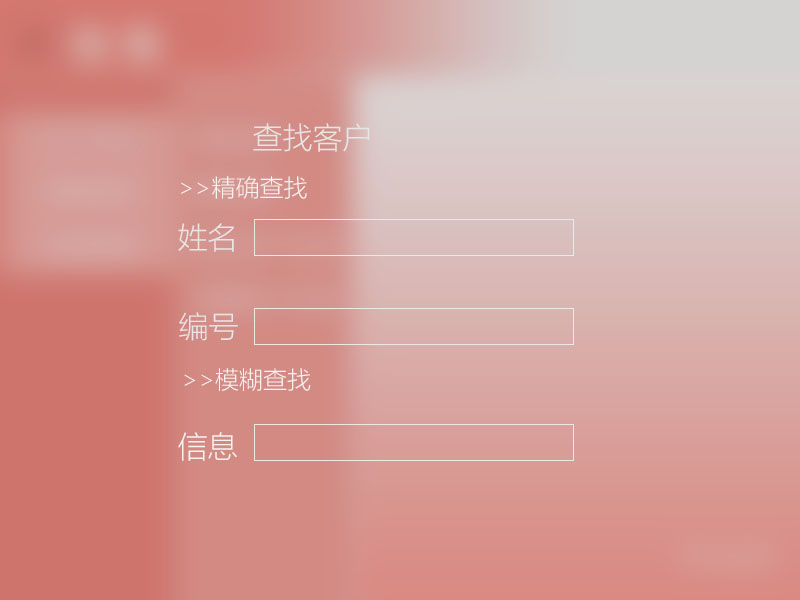
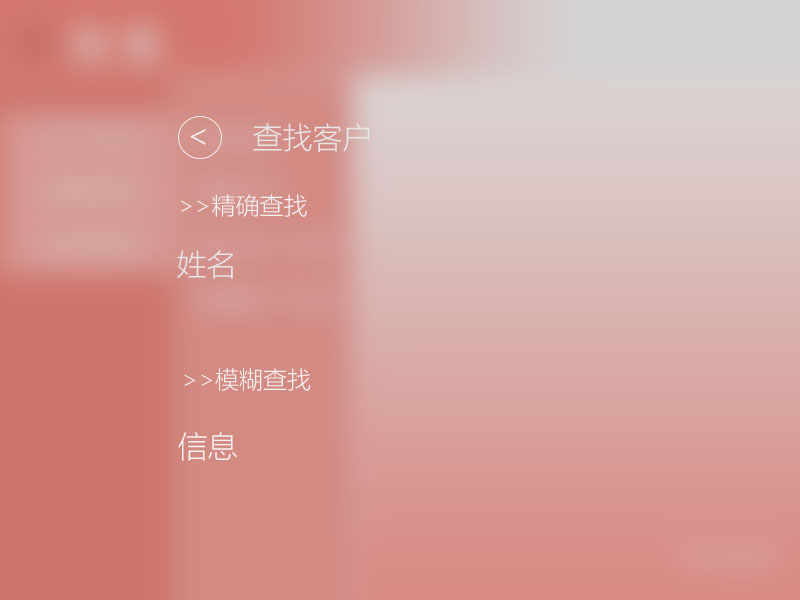
小修改

Changed region(s): [[0.2188, 0.27, 0.4062, 0.48], [0.2188, 0.51, 0.3125, 0.57], [0.2188, 0.21, 0.2812, 0.24]]

diff --git a/JXCSystemClient/src/main/java/ui/admin/ConfirmUserPanel.java b/JXCSystemClient/src/main/java/ui/admin/ConfirmUserPanel.java
@@ -1,6 +1,7 @@
 package ui.admin;
 
 import java.awt.event.ActionEvent;
+
 import java.awt.event.ActionListener;
 
 import ui.AdminPanel;
@@ -8,6 +9,7 @@ import ui.FatherPanel;
 import ui.setting.ColorFactory;
 import ui.setting.MyFrame;
 import ui.setting.MyLabel;
+import ui.setting.Button.BackButton;
 import ui.setting.Button.ForwardButton;
 import ui.setting.Button.MyButton;
 import ui.setting.resultPanels.ResultPanelController;
@@ -16,7 +18,7 @@ import businesslogic.userbl.UserController;
 import businesslogicservice.userblservice.UserblService;
 
 public class ConfirmUserPanel extends FatherPanel implements ActionListener{
-	protected MyButton forwardButton;
+	protected MyButton forwardButton,backButtonConfirm;
 	protected ResultPanelController resController;
 	protected AdminAllUIController adminAllUIController;
 	protected UserVO user;
@@ -41,6 +43,8 @@ public class ConfirmUserPanel extends FatherPanel implements ActionListener{
 		setInfoLabel();
 		
 		userblService = new UserController();
+		
+		frame.repaint();
 	}
 
 	private void setForward() {
@@ -48,6 +52,13 @@ public class ConfirmUserPanel extends FatherPanel implements ActionListener{
 		forwardButton = forward.forward_white;
 		this.add(forwardButton);
 		forwardButton.addActionListener(this);
+		
+		BackButton back = new BackButton(200 ,300);
+		backButtonConfirm = back.back_white;		
+		this.add(backButtonConfirm);
+		backButtonConfirm.addActionListener(this);
+		
+		
 	}
 
 	private void addCloseLabel(){
@@ -102,11 +113,12 @@ public class ConfirmUserPanel extends FatherPanel implements ActionListener{
 	private void check(int i){
 //		System.out.println(i);
 		
-		AdminPanel temp= (AdminPanel)(adminAllUIController.getMainPanel());
+		AdminPanel temp= AdminAllUIController.adminPanel;
 		temp.setTable();
 		
 		resController = new ResultPanelController(frame, temp);
 		temp.remove(this);
+		
 		adminAllUIController.setMainPanel(temp);
 		
 		switch (i) {
@@ -141,9 +153,13 @@ public class ConfirmUserPanel extends FatherPanel implements ActionListener{
 			else if (type.equals("删除")) {
 				check(userblService.delUser_up(user));
 			}
-			frame.repaint();
-		}
 			
+			
+		}else if(event.getSource() == backButtonConfirm){
+			frame.remove(AdminAllUIController.adminPanel);
+			frame.setPanel(adminAllUIController.getPanel());
+		}
+		frame.repaint();		
 	}
 	
 }

diff --git a/JXCSystemClient/src/main/java/ui/commodity/manage/ConfirmComPanel.java b/JXCSystemClient/src/main/java/ui/commodity/manage/ConfirmComPanel.java
@@ -16,12 +16,10 @@ import businesslogicservice.commodityblservice.CommodityblService;
 
 public class ConfirmComPanel extends ComDetailPanel implements ActionListener{
 
-	private MyFrame frame;
 	private MyButton forwardButton;
 	private ResultPanelController resControllerS,resControllerF;
 	private String type;
 	private String failedAddress;
-	private CommodityAllUIController commodityAllUIController;
 	private CommodityVO commodityVO,oldVO;
 	private SortVO sortVO;
 	
@@ -29,14 +27,11 @@ public class ConfirmComPanel extends ComDetailPanel implements ActionListener{
 	public ConfirmComPanel(MyFrame frame, String url, CommodityAllUIController controller,CommodityVO commodityVO,
 			String type,SortVO sortVO) {
 		super(frame, url, controller,commodityVO);
-		this.frame = frame;
-		this.commodityAllUIController = controller;
 		this.type = type;
 		this.sortVO = sortVO;
 		this.failedAddress = "commodity1";
 		this.commodityVO = commodityVO;
 		
-		commodityAllUIController.setBack_first(this);
 
 		commodityblService = new CommodityController();
 		resControllerS = new ResultPanelController(frame,commodityAllUIController.getMainPanel());
@@ -48,15 +43,12 @@ public class ConfirmComPanel extends ComDetailPanel implements ActionListener{
 	public ConfirmComPanel(MyFrame frame, String url, CommodityAllUIController controller,CommodityVO commodityVO,
 			String type,SortVO sortVO,CommodityVO oldVO) {
 		super(frame, url, controller,commodityVO);
-		this.frame = frame;
 		this.oldVO = oldVO;
-		this.commodityAllUIController = controller;
 		this.type = type;
 		this.sortVO = sortVO;
 		this.failedAddress = "commodity1";
 		this.commodityVO = commodityVO;
 		
-		commodityAllUIController.setBack_first(this);
 
 		commodityblService = new CommodityController();
 		resControllerF = new ResultPanelController(frame, commodityAllUIController.getPanel());
@@ -65,6 +57,9 @@ public class ConfirmComPanel extends ComDetailPanel implements ActionListener{
 		setForward();
 	}
 
+	protected void initReturn () {
+		commodityAllUIController.setBack_third(this);
+	}
 	private void setForward() {
 		ForwardButton forward = new ForwardButton(680,451 );
 		forwardButton = forward.forward_black;

diff --git a/JXCSystemClient/src/main/java/ui/account/payRe/AddPaymentPanel.java b/JXCSystemClient/src/main/java/ui/account/payRe/AddPaymentPanel.java
@@ -10,6 +10,8 @@ import javax.swing.event.DocumentListener;
 import javax.swing.text.BadLocationException;
 import javax.swing.text.Document;
 
+import org.openxmlformats.schemas.wordprocessingml.x2006.main.FtrDocument;
+
 import po.PaymentPO;
 import ui.FatherPanel;
 import ui.account.AccountAllUIController;
@@ -151,6 +153,8 @@ public class AddPaymentPanel extends FatherPanel implements ActionListener{
 //		cusVoArray = accountblService.getAllCustomer_up();
 		
 		cusVoArray = salesblService.getAllImportCustomer_up();
+		
+		
 		String[]customers = new String[cusVoArray.size()];
 		for(int i = 0;i < cusVoArray.size();i++){
 			customers[i] = cusVoArray.get(i).cusName;
@@ -247,27 +251,29 @@ public class AddPaymentPanel extends FatherPanel implements ActionListener{
 				frame.remove(this);
 				resController.failed("存在输入为空！", failedAddress);
 				
-			}else{
-				try {
-					
-				} catch (Exception e2) {
-					// TODO: handle exception
-				}
+			}
+			else {
+		
 				
 				
 				try{
 					
-//					totalValue = accountblService.calTotalMoney_up(newPayment);
+					//					totalValue = accountblService.calTotalMoney_up(newPayment);
 					setNewPayment();
-					uiController.setTempPanel(this);
+					if(totalValue > balanceValue){
+						frame.remove(this);
+						resController.failed("账户余额不足！", failedAddress);
+					}else{
+						uiController.setTempPanel(this);
+						frame.remove(this);
+						operate = operator.getText();
+						uiController.confirmPayment(newPayment,person,operate,
+								totalValue,balanceValue);
+					}
+				}catch(Exception e2){
 					frame.remove(this);
-					operate = operator.getText();
-					uiController.confirmPayment(newPayment,person,operate,
-							totalValue,balanceValue);
-						}catch(Exception e2){
-							frame.remove(this);
-							resController.failed("存在输入错误！",failedAddress);		
-							}
+					resController.failed("存在输入错误！",failedAddress);		
+				}
 			}
 				
 		}else if(e.getSource() == account){

diff --git a/JXCSystemClient/src/main/java/ui/admin/DelUserPanel.java b/JXCSystemClient/src/main/java/ui/admin/DelUserPanel.java
@@ -4,6 +4,7 @@ import java.awt.event.ActionEvent;
 import java.awt.event.ActionListener;
 
 import ui.FatherPanel;
+import ui.UIController;
 import ui.setting.ColorFactory;
 import ui.setting.MyFrame;
 import ui.setting.Button.ForwardButton;
@@ -75,6 +76,7 @@ public class DelUserPanel extends FatherPanel implements ActionListener{
 				 */
 				user = userblService.searchUser_up(id).get(0);
 				//			user = new UserVO("21", "2", "2", 1);
+				adminAllUIController.setTempPanel(this);
 				adminAllUIController.confirmUserPanel(user,"删除");
 				frame.repaint();
 			}

diff --git a/JXCSystemClient/src/main/java/ui/admin/AddUserPanel.java b/JXCSystemClient/src/main/java/ui/admin/AddUserPanel.java
@@ -121,10 +121,13 @@ public class AddUserPanel extends FatherPanel implements ActionListener{
 				frame.remove(this);
 				resController.failed("输入存在错误！请重新确认您的输入信息！", failedAddress);
 			}else {
+//			uiController.setTempPanel(this);
 			frame.remove(this);
 			frame.setPanel(uiController.getMainPanel());
 			user = new UserVO(textInfos[0].getText(),textInfos[1].getText()
 					,textInfos[3].getText(),dutyGet);
+			
+			uiController.setTempPanel(this);
 			uiController.confirmUserPanel(user,"添加");
 			}
 			frame.repaint();

diff --git a/JXCSystemClient/src/main/java/ui/admin/AdminAllUIController.java b/JXCSystemClient/src/main/java/ui/admin/AdminAllUIController.java
@@ -16,7 +16,7 @@ public class AdminAllUIController extends UIController{
 	private UIController uiController;
 	private AddUserPanel addUserPanel;
 	private DelUserPanel delUserPanel;
-	private AdminPanel adminPanel;
+	static public AdminPanel adminPanel;
 	private ConfirmUserPanel confirmUserPanel;
  
 	
@@ -82,6 +82,7 @@ public class AdminAllUIController extends UIController{
 		this.prePanel = prePanel;
 		new SetBack(frame,this,prePanel).setBack_second(x, y);
 	}
+
 	/**
 	 * 返回主界面
 	 * @param type

diff --git a/JXCSystemClient/src/main/java/ui/setting/Button/BackButton.java b/JXCSystemClient/src/main/java/ui/setting/Button/BackButton.java
@@ -17,5 +17,7 @@ public class BackButton extends MyButton{
 	public BackButton(int x,int y){
 		back_black = new MyButton("Image/Sales/Sales_image/返回_白.png", x, y, "Image/Sales/Sales_image/返回.png",
 				"Image/Sales/Sales_image/返回_press_on.png");
+		back_white= new MyButton("Image/Sales/Sales_image/返回_白.png", x, y, "Image/Sales/Sales_image/返回_press_on.png",
+				"Image/Sales/Sales_image/返回_press_on.png");
 	}
 }

diff --git a/JXCSystemClient/src/main/java/ui/commodity/manage/ComDetailPanel.java b/JXCSystemClient/src/main/java/ui/commodity/manage/ComDetailPanel.java
@@ -11,8 +11,8 @@ import ui.setting.MyLabel;
 import vo.CommodityVO;
 
 public class ComDetailPanel extends FatherPanel{
-	private MyFrame frame;
-	private CommodityAllUIController commodityAllUIController;
+	protected MyFrame frame;
+	protected CommodityAllUIController commodityAllUIController;
 	private CommodityVO com;
 	
 	private MyLabel labels[] = new MyLabel[10];

diff --git a/JXCSystemClient/src/main/java/ui/commodity/manage/AddComPanel.java b/JXCSystemClient/src/main/java/ui/commodity/manage/AddComPanel.java
@@ -190,6 +190,7 @@ public class AddComPanel extends FatherPanel implements ActionListener{
 			commodityAllUIController.confirmCom(newCom,"add",sortVO);
 		}catch(Exception e){
 			frame.remove(this);
+			e.printStackTrace();
 			resController.failed("请重新确认输入信息！", failedAddress);
 			//添加失败	
 			}

diff --git a/JXCSystemClient/src/main/java/ui/setting/SetBack.java b/JXCSystemClient/src/main/java/ui/setting/SetBack.java
@@ -47,6 +47,7 @@ public class SetBack {
 		backButton.addMouseListener(backListener);
 	}
 	
+	
 	   class Listener implements MouseListener{
 
 		public void mouseClicked(MouseEvent e) {
